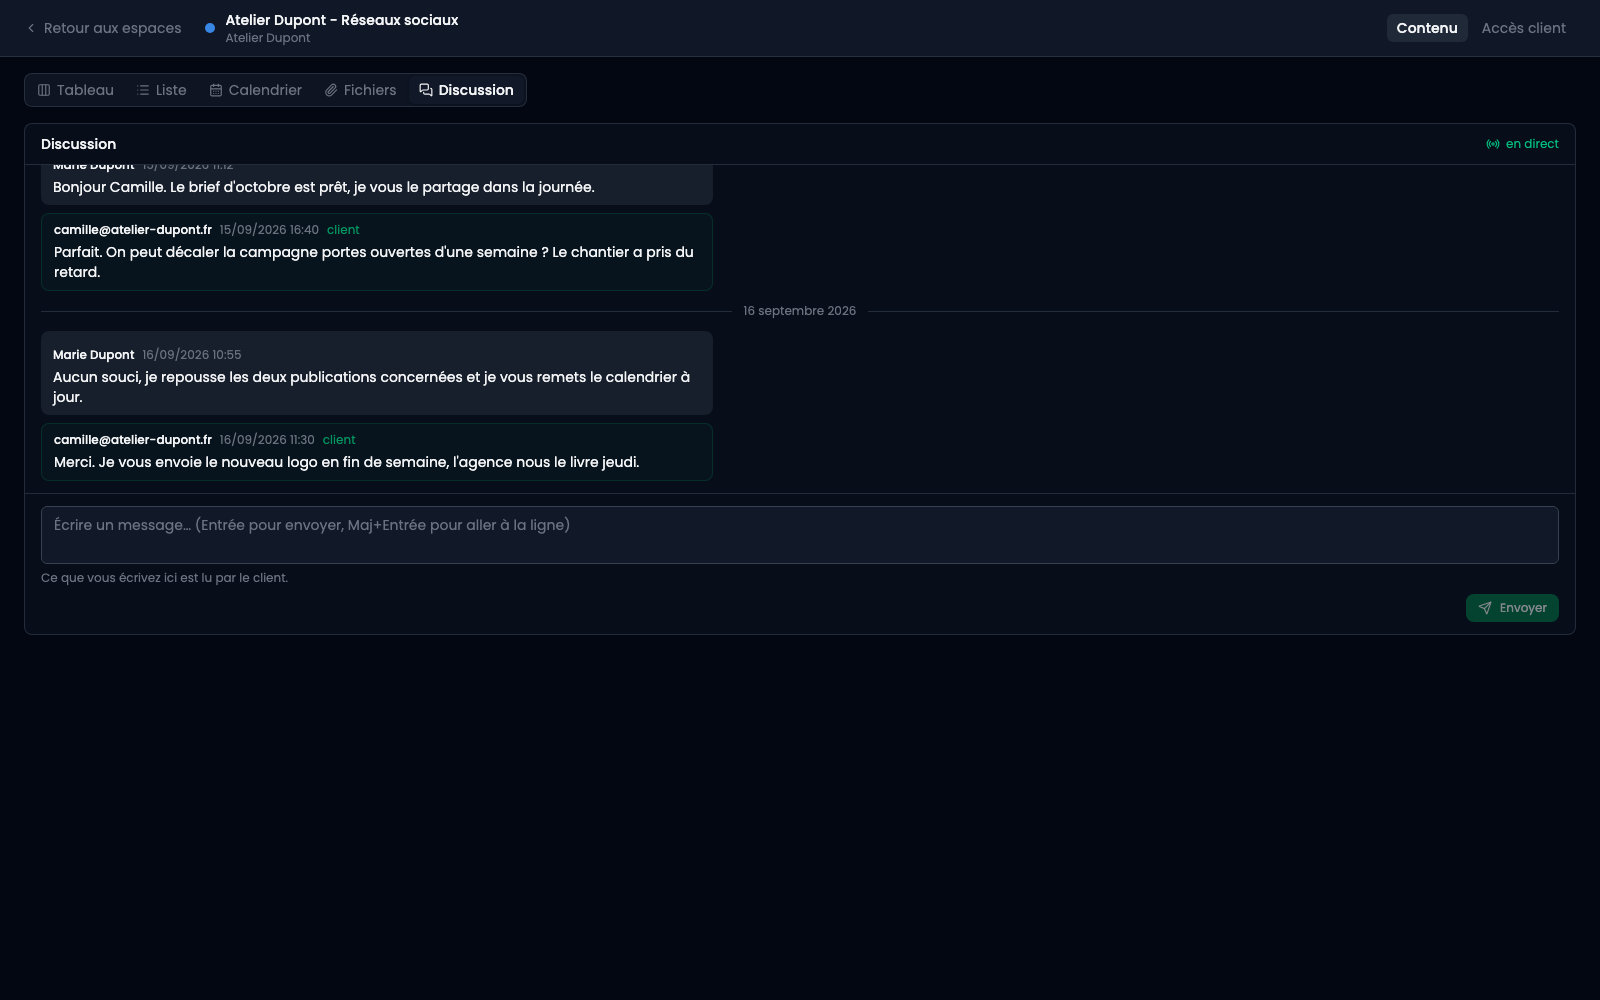
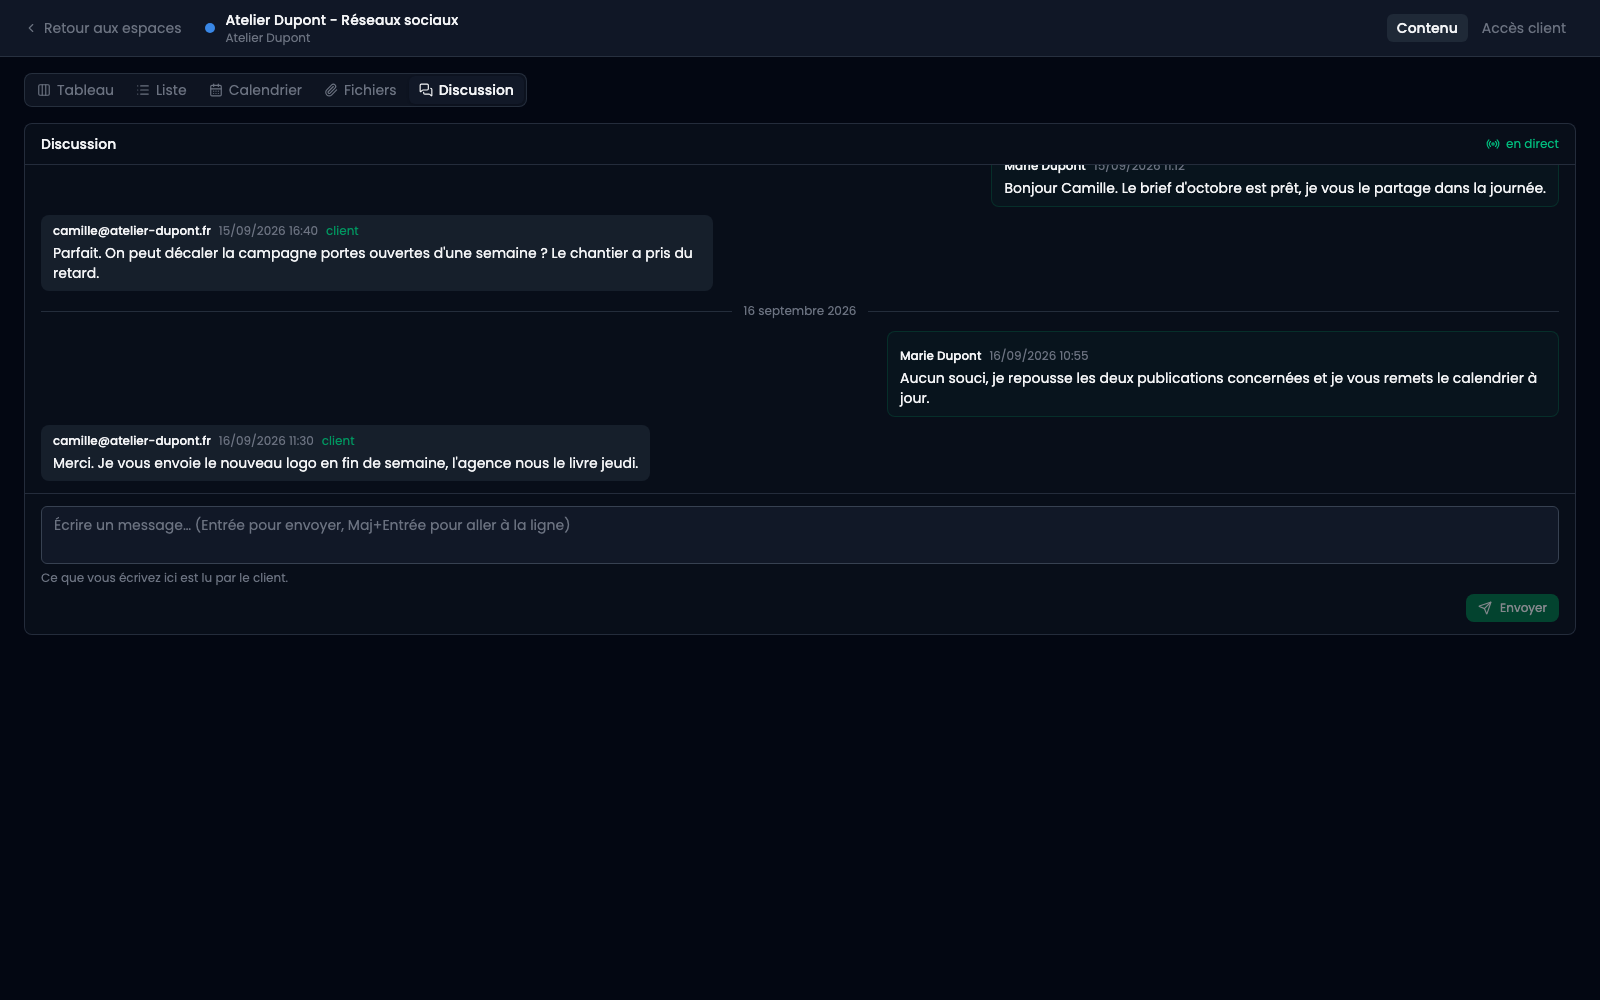
feat(studio): the conversation reads like one
Everything was flush left, which makes a list of messages rather than an
exchange. Your own messages sit on the right now and the other side on the
left - and on the client's page it is the other way round, because each of them
is looking at the same stream from their own end. The component is told which
side is reading rather than guessing from "fromClient", which would have put
the client's own words on the far side of their own page.

The "client" tag is kept only where it says something. On their own page a
client does not need telling that they are the client.

Also fixes the panel opening on the oldest message, which the client's page did
every time. The scroll ran after mount, when the box may still have no height,
and scrolling something that is not yet scrollable does nothing. Waiting a
frame fixed the studio's page, waiting for the fonts fixed a third case, and
each of those is a guess about when the layout settles.

The content is observed instead: the box getting its height, a font rewrapping
the text and a message arriving are one event with one answer - if the reader
was at the end, keep them there. Scrolling up suspends it, coming back resumes
it.

diff --git a/src/Module/Studio/SpaceChat/assets/shared/SpaceChatPanel.vue b/src/Module/Studio/SpaceChat/assets/shared/SpaceChatPanel.vue
@@ -17,7 +17,7 @@
  * surfaces mount it: a key under `backend.` rendered on a page a customer reads
  * is a namespace that has stopped meaning anything.
  */
-import { computed, nextTick, onMounted, ref, watch } from "vue";
+import { computed, nextTick, onBeforeUnmount, onMounted, ref } from "vue";
 import { useI18n } from "vue-i18n";
 import { Radio, Send, Trash2, WifiOff } from "lucide-vue-next";
 import AppTextarea from "@/shared/components/form/input/AppTextarea.vue";
@@ -34,6 +34,20 @@ const props = defineProps({
     streamUrl: { type: String, default: null },
     /** Shown above the box: who reads what is typed here. */
     notice: { type: String, default: "" },
+    /**
+     * Which side of the conversation is reading.
+     *
+     * **The same stream, drawn from each reader's point of view.** A message is
+     * on the right when the person looking at it wrote it, so the studio sees
+     * its own on the right and the client sees theirs on the right - and the
+     * two are looking at one conversation, not two. Without this the component
+     * would have to guess, and it would guess wrong on one of the two surfaces.
+     */
+    ownSide: {
+        type: String,
+        default: "studio",
+        validator: (value) => ["studio", "client"].includes(value),
+    },
 });
 
 const { t, d } = useI18n();
@@ -50,8 +64,14 @@ const { messages, loading, live, expectsLive, post, remove } = useSpaceChat(
 
 const draft = ref("");
 const scroller = ref(null);
+const content = ref(null);
 
 const canPost = computed(() => !!props.postPath);
+
+/** Whether this message was written by whoever is reading. */
+function mine(message) {
+    return message.fromClient === ("client" === props.ownSide);
+}
 
 /**
  * The stream, with a line whenever the day changes.
@@ -78,22 +98,6 @@ const entries = computed(() => {
     return stream;
 });
 
-/**
- * Whether the reader is at the bottom, asked before the list grows.
- *
- * A chat that jumps to the newest message while somebody is reading last
- * week's is a chat they cannot read. So it only follows when they were already
- * following.
- */
-function atBottom() {
-    const element = scroller.value;
-    if (!element) return true;
-
-    return (
-        element.scrollHeight - element.scrollTop - element.clientHeight < 80
-    );
-}
-
 function toBottom() {
     if (scroller.value) {
         scroller.value.scrollTop = scroller.value.scrollHeight;
@@ -101,41 +105,58 @@ function toBottom() {
 }
 
 /**
- * Opened at the bottom, like every conversation ever written.
+ * Whether the reader is following the end of the conversation.
  *
- * The watcher below only follows the list as it grows, which says nothing
- * about the first paint: a space with two days of history opened on its
- * oldest message, with the newest hidden under the fold. What somebody wants
- * on arriving is the last thing that was said.
- *
- * **Three attempts, and each one is for a different reason the first can
- * fail.** At `nextTick` the rows exist but the box around them may not have
- * its height yet, and scrolling a box that is not yet scrollable does nothing.
- * A frame later it does. And a web font landing after that rewraps the text,
- * which lengthens the list under a reader who was already at the bottom.
+ * True until they scroll up to read something older, and true again the moment
+ * they come back down. A chat that jumps to the newest message while somebody
+ * is reading last week's is a chat they cannot read.
  */
-onMounted(async () => {
-    await nextTick();
-    toBottom();
+const following = ref(true);
 
-    requestAnimationFrame(toBottom);
+function onScroll() {
+    const element = scroller.value;
+    if (!element) return;
 
-    document.fonts?.ready.then(toBottom).catch(() => {});
+    following.value =
+        element.scrollHeight - element.scrollTop - element.clientHeight < 80;
+}
+
+/**
+ * **Observed rather than timed, and that is the whole lesson here.**
+ *
+ * Opening at the bottom looks like a line to run after mount, and it is not: at
+ * that point the box may still have no height, and scrolling something that is
+ * not yet scrollable does nothing at all. Waiting a frame fixed it on the
+ * studio's page, where the panel mounts when somebody switches to it, and left
+ * the client's page opening on its oldest message - there it mounts with the
+ * rest of a long document. Waiting for the web fonts fixed a third case. Each
+ * of those is a guess about when the layout settles, and there is always
+ * another one.
+ *
+ * So the content is watched instead. The box gaining its height, a font
+ * rewrapping the text, a message arriving: one event here, one answer - if the
+ * reader was at the end, keep them there.
+ */
+let observer = null;
+
+onMounted(() => {
+    if (typeof ResizeObserver === "undefined") {
+        void nextTick().then(toBottom);
+
+        return;
+    }
+
+    observer = new ResizeObserver(() => {
+        if (following.value) toBottom();
+    });
+
+    if (content.value) observer.observe(content.value);
 });
 
-watch(
-    () => messages.value.length,
-    async (now, before) => {
-        if (now <= before) return;
-
-        const follow = atBottom();
-        await nextTick();
-
-        if (follow) {
-            toBottom();
-        }
-    },
-);
+onBeforeUnmount(() => {
+    observer?.disconnect();
+    observer = null;
+});
 
 async function send() {
     const body = draft.value.trim();
@@ -191,63 +212,88 @@ function onKeydown(event) {
             </span>
         </header>
 
-        <div ref="scroller" class="flex-1 space-y-2 overflow-y-auto px-4 py-3">
-            <p v-if="!entries.length" class="text-sm text-muted">
-                {{ t("shared.space_chat.empty") }}
-            </p>
+        <div
+            ref="scroller"
+            class="flex-1 overflow-y-auto px-4 py-3"
+            v-on:scroll="onScroll"
+        >
+            <!-- Un conteneur pour les entrées, et c'est lui qu'on observe : sa
+                 hauteur est celle du contenu, la seule mesure qui dise qu'il y
+                 a du nouveau sous le pli. -->
+            <div ref="content" class="space-y-2">
+                <p v-if="!entries.length" class="text-sm text-muted">
+                    {{ t("shared.space_chat.empty") }}
+                </p>
 
-            <template v-for="entry in entries" :key="entry.key">
-                <div
-                    v-if="'day' === entry.kind"
-                    class="flex items-center gap-3 py-1"
-                >
-                    <span class="h-px flex-1 bg-line/60" />
-                    <!-- The day, without a clock: `short` would print
-                         "17/09/2026 00:48" on a line whose whole job is to
-                         say which day the messages under it belong to. -->
-                    <span class="text-xs text-muted">
-                        {{ d(entry.at, "long") }}
-                    </span>
-                    <span class="h-px flex-1 bg-line/60" />
-                </div>
-
-                <div
-                    v-else
-                    class="group max-w-[42rem] rounded-lg px-3 py-2"
-                    :class="
-                        entry.message.fromClient
-                            ? 'border border-accent-500/20 bg-accent-500/5'
-                            : 'bg-surface-2/60'
-                    "
-                >
-                    <div class="flex items-baseline gap-2">
-                        <span class="text-xs font-medium text-primary">
-                            {{ entry.message.author }}
-                        </span>
+                <template v-for="entry in entries" :key="entry.key">
+                    <div
+                        v-if="'day' === entry.kind"
+                        class="flex items-center gap-3 py-1"
+                    >
+                        <span class="h-px flex-1 bg-line/60" />
+                        <!-- The day, without a clock: `short` would print
+                             "17/09/2026 00:48" on a line whose whole job is to
+                             say which day the messages under it belong to. -->
                         <span class="text-xs text-muted">
-                            {{ d(new Date(entry.message.createdAt), "short") }}
+                            {{ d(entry.at, "long") }}
                         </span>
-                        <span
-                            v-if="entry.message.fromClient"
-                            class="text-xs text-accent-500"
-                        >
-                            {{ t("shared.space_chat.from_client") }}
-                        </span>
-                        <button
-                            v-if="deletePath && !entry.message.fromClient"
-                            type="button"
-                            class="ml-auto rounded p-1 text-muted opacity-0 transition-opacity hover:text-red-500 group-hover:opacity-100"
-                            :aria-label="t('shared.common.delete')"
-                            v-on:click="remove(entry.message)"
-                        >
-                            <Trash2 class="h-3 w-3" :stroke-width="2" />
-                        </button>
+                        <span class="h-px flex-1 bg-line/60" />
                     </div>
-                    <p class="mt-1 whitespace-pre-line text-sm text-primary">
-                        {{ entry.message.body }}
-                    </p>
-                </div>
-            </template>
+
+                    <!-- Le cote decide l'alignement, la couleur le suit. Deux
+                         signaux pour la meme chose plutot qu'un, parce que
+                         l'alignement seul se perd sur un message d'une ligne et
+                         que la couleur seule se perd pour qui la distingue mal. -->
+                    <div
+                        v-else
+                        class="flex"
+                        :class="mine(entry.message) ? 'justify-end' : 'justify-start'"
+                    >
+                        <div
+                            class="group max-w-[min(42rem,80%)] rounded-lg px-3 py-2"
+                            :class="
+                                mine(entry.message)
+                                    ? 'border border-accent-500/20 bg-accent-500/5'
+                                    : 'bg-surface-2/60'
+                            "
+                        >
+                            <div class="flex items-baseline gap-2">
+                                <!-- Le nom reste des deux cotes : un studio a
+                                     plusieurs personnes, et « qui a repondu » est
+                                     une question qu'on se pose de son propre cote
+                                     aussi. -->
+                                <span class="text-xs font-medium text-primary">
+                                    {{ entry.message.author }}
+                                </span>
+                                <span class="text-xs text-muted">
+                                    {{ d(new Date(entry.message.createdAt), "short") }}
+                                </span>
+                                <!-- Seulement quand ca apprend quelque chose : sur
+                                     sa propre page, le client n'a pas besoin qu'on
+                                     lui dise qu'il est le client. -->
+                                <span
+                                    v-if="entry.message.fromClient && 'studio' === ownSide"
+                                    class="text-xs text-accent-500"
+                                >
+                                    {{ t("shared.space_chat.from_client") }}
+                                </span>
+                                <button
+                                    v-if="deletePath && !entry.message.fromClient"
+                                    type="button"
+                                    class="ml-auto rounded p-1 text-muted opacity-0 transition-opacity hover:text-red-500 group-hover:opacity-100"
+                                    :aria-label="t('shared.common.delete')"
+                                    v-on:click="remove(entry.message)"
+                                >
+                                    <Trash2 class="h-3 w-3" :stroke-width="2" />
+                                </button>
+                            </div>
+                            <p class="mt-1 whitespace-pre-line text-sm text-primary">
+                                {{ entry.message.body }}
+                            </p>
+                        </div>
+                    </div>
+                </template>
+            </div>
         </div>
 
         <div v-if="canPost" class="space-y-2 border-t border-line/60 px-4 py-3">

diff --git a/src/Module/Studio/SpaceChat/assets/shared/SpaceChatPanel.test.js b/src/Module/Studio/SpaceChat/assets/shared/SpaceChatPanel.test.js
@@ -72,6 +72,33 @@ describe("SpaceChatPanel", () => {
         expect(separators.length).toBe(4); // two rules per separator
     });
 
+    it("puts the reader's own messages on their side, whichever side that is", () => {
+        // One stream, two points of view. The studio wrote message 1 and the
+        // client message 2, so the alignment has to swap between the two
+        // surfaces - a component that picked a side by "fromClient" alone
+        // would put the client's own words on the far side of their own page.
+        const studio = render();
+        const rows = studio.findAll(".flex.justify-end, .flex.justify-start");
+
+        expect(rows[0].classes()).toContain("justify-end"); // du studio
+        expect(rows[1].classes()).toContain("justify-start"); // du client
+
+        const client = render({ ownSide: "client" });
+        const flipped = client.findAll(
+            ".flex.justify-end, .flex.justify-start",
+        );
+
+        expect(flipped[0].classes()).toContain("justify-start");
+        expect(flipped[1].classes()).toContain("justify-end");
+    });
+
+    it("only tags a message as the client's when that says something", () => {
+        // On their own page the client does not need telling they are the
+        // client.
+        expect(render().text()).toContain("client");
+        expect(render({ ownSide: "client" }).text()).not.toContain("client");
+    });
+
     it("opens no connection when no hub is configured", () => {
         const source = vi.fn();
         vi.stubGlobal("EventSource", source);

diff --git a/src/Module/Studio/SpaceAccess/assets/frontend/space/PublicSpaceApp.vue b/src/Module/Studio/SpaceAccess/assets/frontend/space/PublicSpaceApp.vue
@@ -297,6 +297,7 @@ function open(event) {
             :stream-url="chatStreamUrl"
             :post-path="chatPostPath"
             :reload-path="chatReloadPath"
+            own-side="client"
             :notice="chatPostPath ? t('studio.public.space.chat_notice') : ''"
         />
 

diff --git a/CHANGELOG.md b/CHANGELOG.md
@@ -5,6 +5,36 @@ projets clients doivent répercuter après avoir lancé `make aurora-update`.
 
 ---
 
+## [0.9.197] - 2026-09-17
+
+### Modifié
+
+#### La discussion se lit comme une conversation
+Tout était collé à gauche, ce qui donne une liste de messages plutôt qu'un
+échange. Vos messages sont maintenant à droite et ceux d'en face à gauche -
+et sur la page du client, c'est l'inverse : chacun se voit à droite. C'est le
+même fil, regardé de deux endroits, et le composant reçoit désormais de quel
+côté on le regarde plutôt que de le deviner.
+
+La mention « client » ne s'affiche plus que là où elle apprend quelque chose :
+sur sa propre page, le client n'a pas besoin qu'on lui dise qu'il est le
+client.
+
+#### Le panneau s'ouvre sur le dernier message, partout
+Il s'ouvrait en haut de la conversation sur la page du client, avec le message
+le plus récent sous le pli. Le défilement était déclenché après le montage, à
+un instant où la boîte n'a pas encore sa hauteur : faire défiler ce qui n'est
+pas encore défilable ne fait rien. Attendre une image réglait le cas du
+back-office, attendre les polices un troisième cas, et chacune de ces attentes
+est une supposition sur le moment où la mise en page se stabilise.
+
+Le contenu est observé à la place. La boîte qui prend sa hauteur, une police
+qui recompose le texte, un message qui arrive : un seul événement, une seule
+réponse - si le lecteur était à la fin, l'y garder. Remonter dans l'historique
+suspend le suivi, redescendre le reprend.
+
+---
+
 ## [0.9.196] - 2026-09-17
 
 ### Modifié

diff --git a/src/Module/Documentation/content/06-studio/0075-la-discussion.md b/src/Module/Documentation/content/06-studio/0075-la-discussion.md
@@ -11,6 +11,8 @@ Dans le sélecteur de vues, à côté de Tableau, Liste, Calendrier et Fichiers 
 
 ![La discussion d'un espace, côté studio](../../images/06-studio/la-discussion-01-la-discussion.png)
 
+**Vos messages sont à droite, ceux du client à gauche** — et sur sa page, c'est l'inverse : chacun se voit à droite. C'est le même fil, regardé de deux endroits.
+
 **Un seul fil, lu des deux côtés.** Ce que vous écrivez là, le client le lit ; la phrase sous la zone de saisie le dit.
 
 ![La zone de saisie et sa phrase d'avertissement](../../images/06-studio/la-discussion-02-ce-que-le-client-lit.png)
